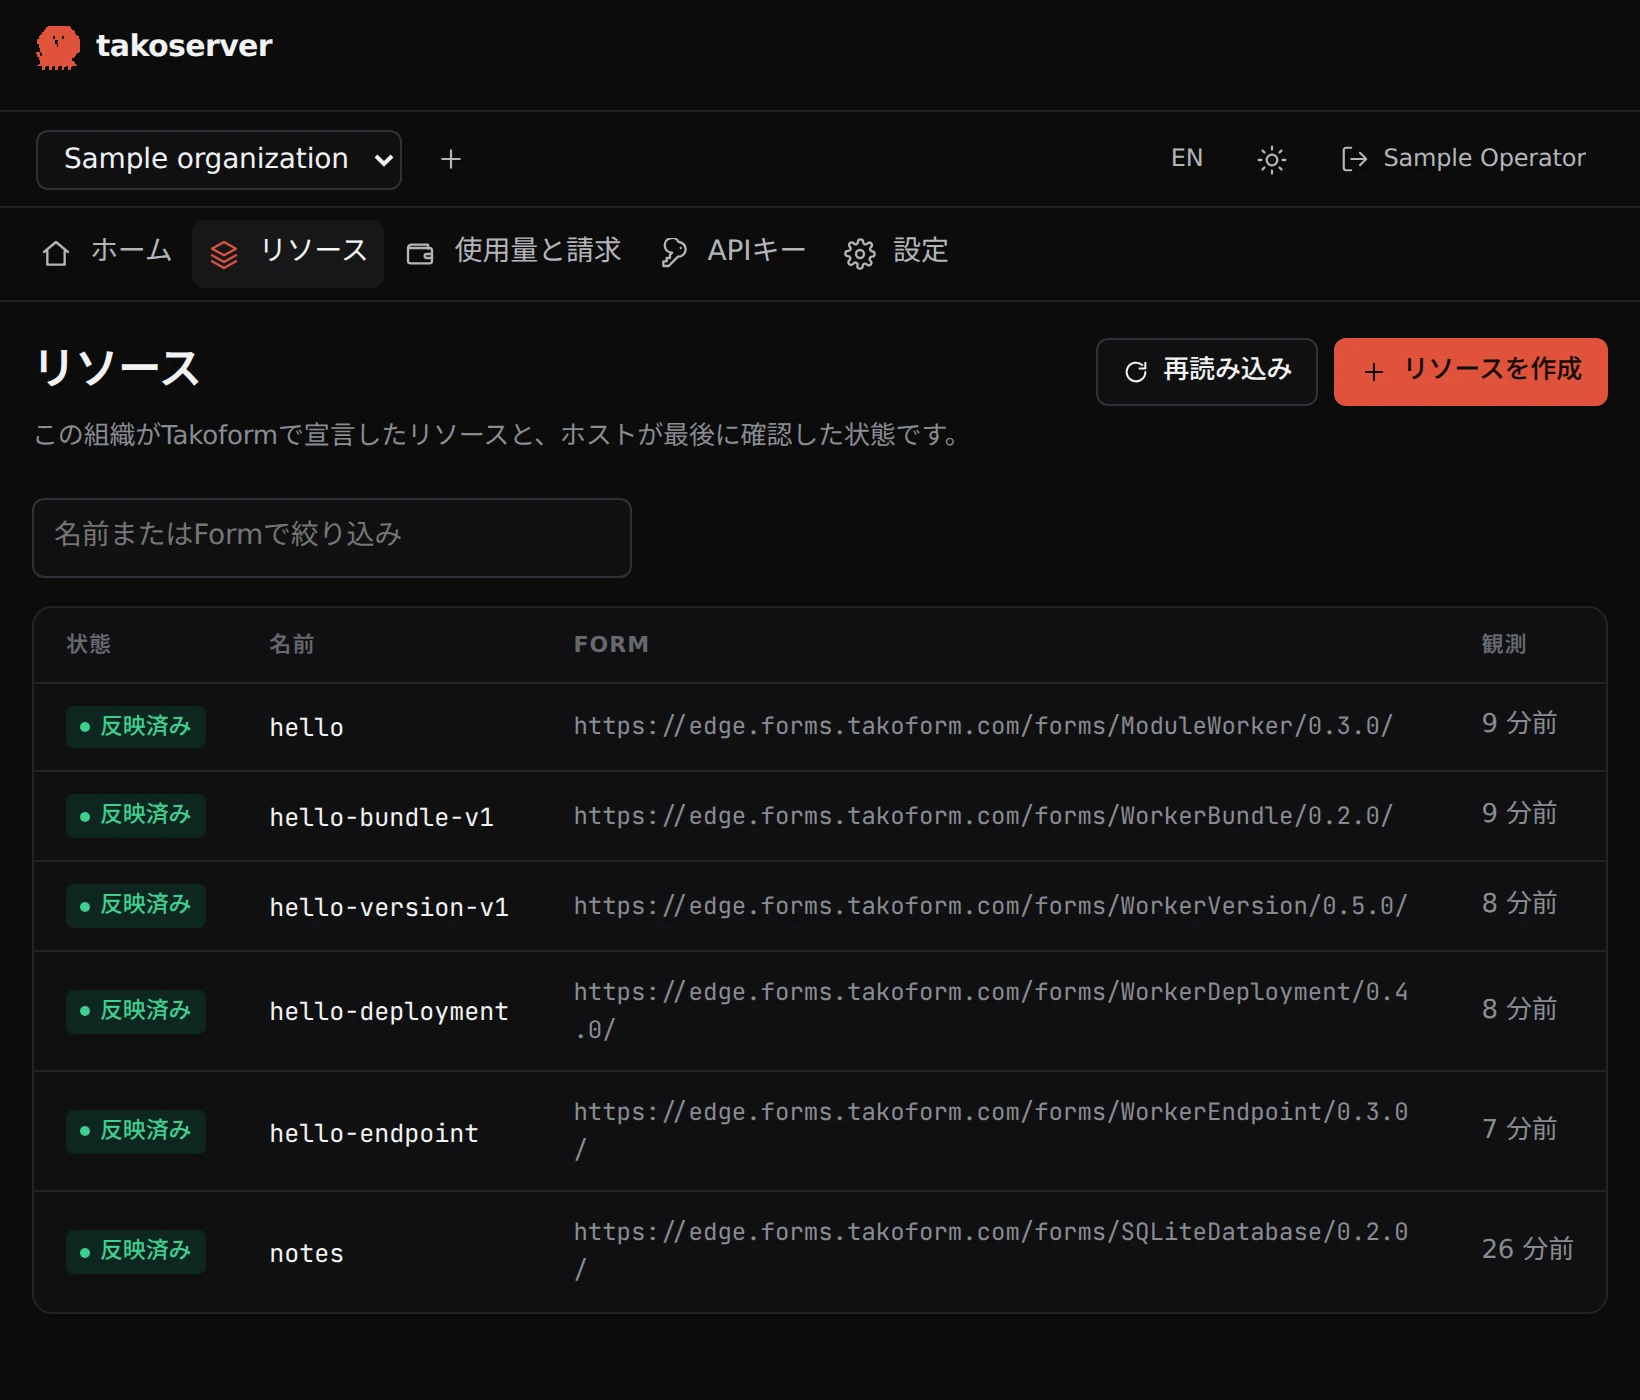
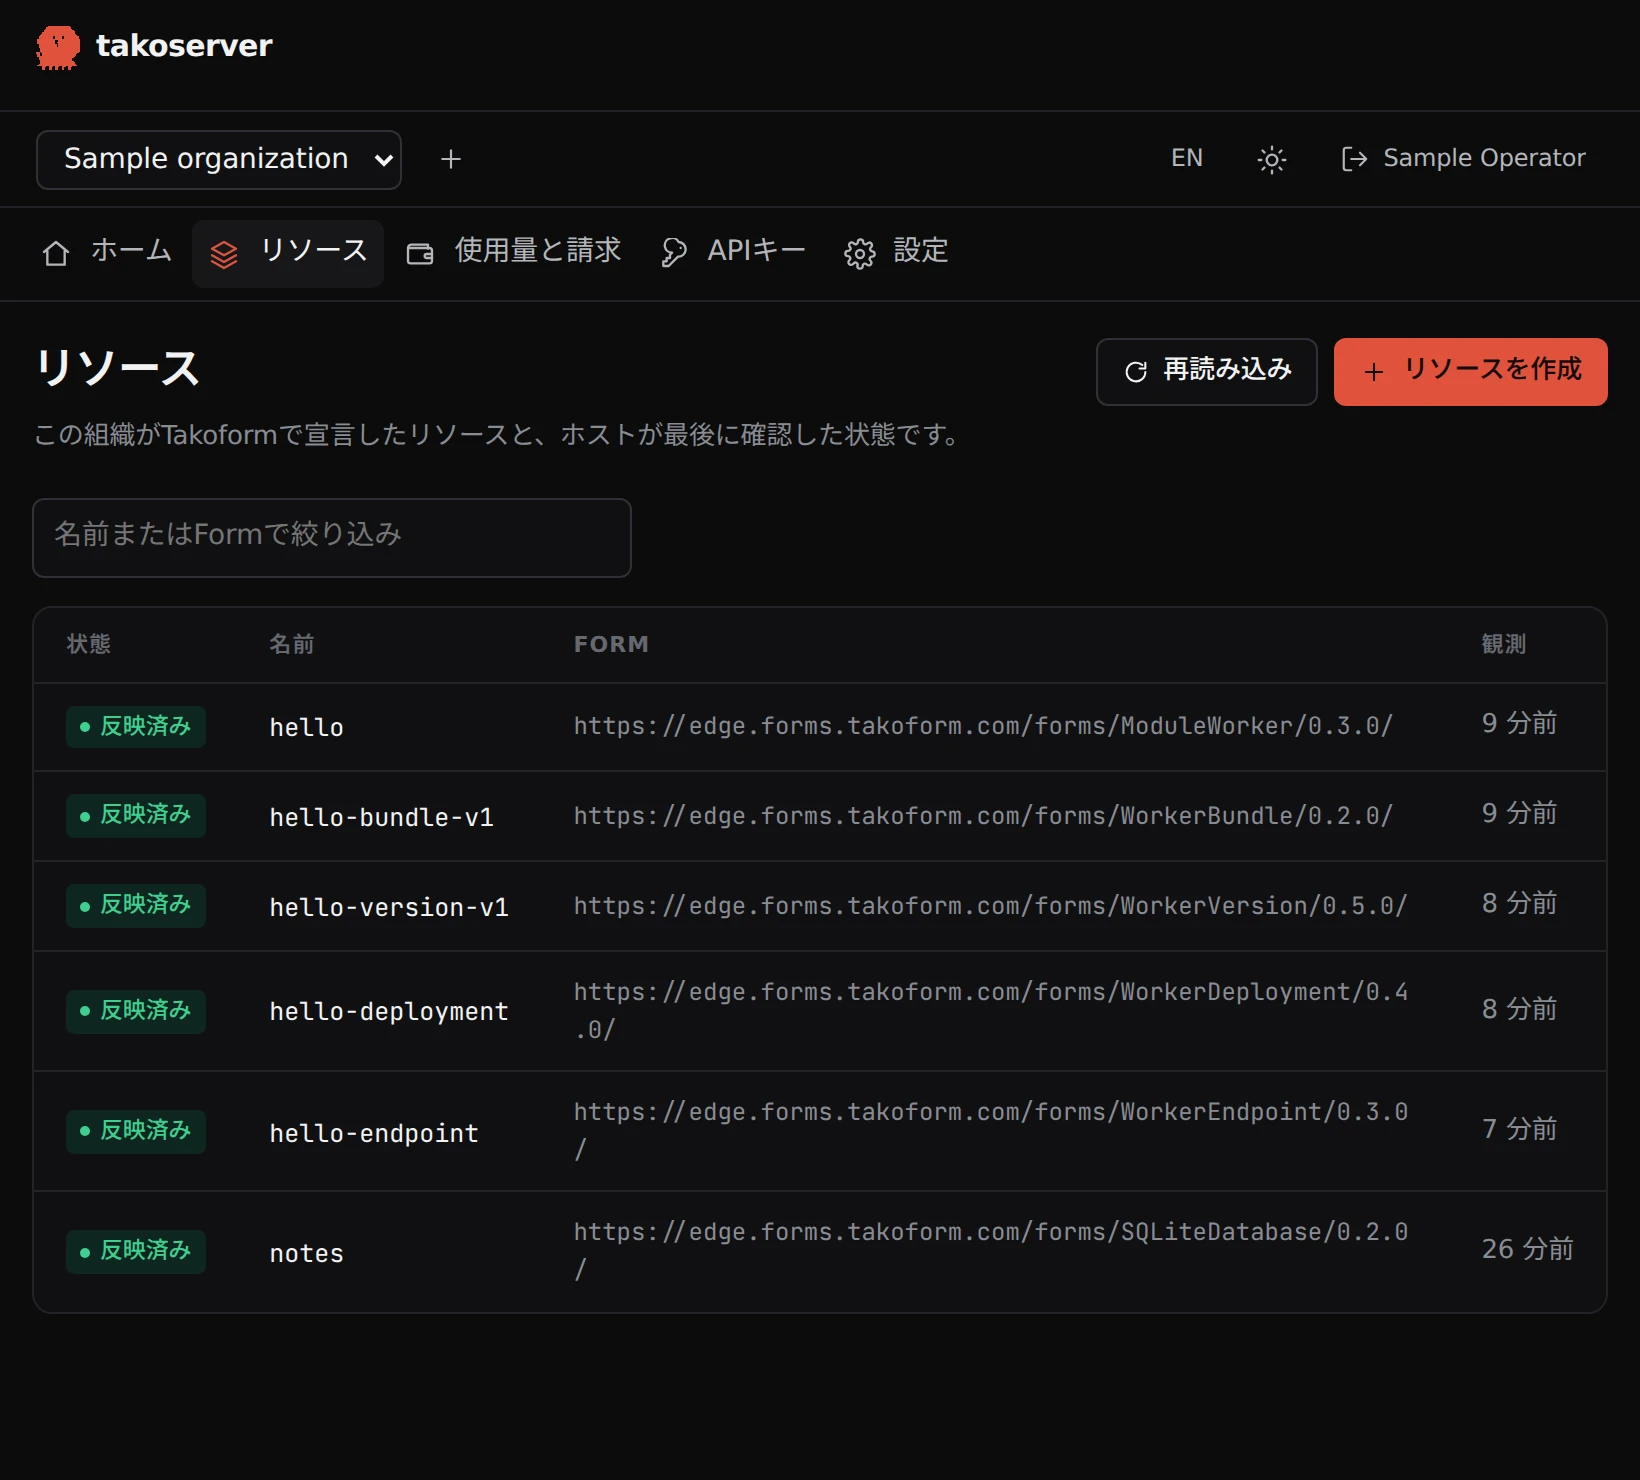
site: fit the tablet frame to its borders and show the whole table
Review follow-up: the frame cap counts the two 1px borders (848px), and the
tablet capture is 820 x 740 so the English shots end below the last row.

diff --git a/src/landing.ts b/src/landing.ts
@@ -334,7 +334,7 @@ footer { display: flex; align-items: center; justify-content: space-between; fle
 .error p { margin: 12px 0 0; color: var(--ink-2); }
 .error .pill { margin-top: 28px; }
 
-@media (min-width: 761px) and (max-width: 1100px) { .preview .frame { max-width: 844px; margin-inline: auto; } }
+@media (min-width: 761px) and (max-width: 1100px) { .preview .frame { max-width: 848px; margin-inline: auto; } }
 @media (max-width: 760px) {
   .shell { width: calc(100% - 32px); }
   .top { height: 72px; }
@@ -376,8 +376,8 @@ export function landingHtml(options: LandingOptions): string {
 <div class="frame"><picture>
 <source media="(max-width: 760px) and (prefers-color-scheme: dark)" srcset="${localized(screen("mobile", "dark"))}" data-locale-srcset="${screen("mobile", "dark")}" width="780" height="1560">
 <source media="(max-width: 760px)" srcset="${localized(screen("mobile", "light"))}" data-locale-srcset="${screen("mobile", "light")}" width="780" height="1560">
-<source media="(max-width: 1100px) and (prefers-color-scheme: dark)" srcset="${localized(screen("tablet", "dark"))}" data-locale-srcset="${screen("tablet", "dark")}" width="1640" height="1400">
-<source media="(max-width: 1100px)" srcset="${localized(screen("tablet", "light"))}" data-locale-srcset="${screen("tablet", "light")}" width="1640" height="1400">
+<source media="(max-width: 1100px) and (prefers-color-scheme: dark)" srcset="${localized(screen("tablet", "dark"))}" data-locale-srcset="${screen("tablet", "dark")}" width="1640" height="1480">
+<source media="(max-width: 1100px)" srcset="${localized(screen("tablet", "light"))}" data-locale-srcset="${screen("tablet", "light")}" width="1640" height="1480">
 <source media="(prefers-color-scheme: dark)" srcset="${localized(screen("desktop", "dark"))}" data-locale-srcset="${screen("desktop", "dark")}" width="2400" height="1500">
 <img src="${localized(screen("desktop", "light"))}" data-locale-src="${screen("desktop", "light")}" width="2400" height="1500" alt="${copy.previewAlt}" data-i18n-alt="previewAlt" fetchpriority="high">
 </picture></div>

diff --git a/scripts/capture-site-console.ts b/scripts/capture-site-console.ts
@@ -9,7 +9,7 @@
  * credential or real Host is used. Requires /usr/bin/google-chrome.
  *
  * Writes site/screens/console-{desktop,tablet,mobile}-{light,dark}-{en,ja}.webp.
- * Desktop is the whole 1200 x 750 viewport; tablet is 820 x 700, a tablet's
+ * Desktop is the whole 1200 x 750 viewport; tablet is 820 x 740, a tablet's
  * portrait width, which the page shows between phone and desktop widths so
  * the Console is not shrunk to two thirds there; mobile is 390 x 780, a
  * phone's width, so its text stays legible in the page. All are captured at
@@ -202,7 +202,7 @@ try {
   for (const locale of ["en", "ja"] as const) {
     for (const [shape, width, height] of [
       ["desktop", 1200, 750],
-      ["tablet", 820, 700],
+      ["tablet", 820, 740],
       ["mobile", 390, 780],
     ] as const) {
       for (const theme of ["light", "dark"] as const) {

diff --git a/tests/landing.test.ts b/tests/landing.test.ts
@@ -117,7 +117,7 @@ describe("Takoserver public site", () => {
     // Between phone and desktop widths the page shows the Console at a tablet's
     // width rather than shrinking the desktop capture.
     expect(english).toContain(
-      '<source media="(max-width: 1100px) and (prefers-color-scheme: dark)" srcset="/screens/console-tablet-dark-en.webp" data-locale-srcset="/screens/console-tablet-dark-{lang}.webp" width="1640" height="1400">',
+      '<source media="(max-width: 1100px) and (prefers-color-scheme: dark)" srcset="/screens/console-tablet-dark-en.webp" data-locale-srcset="/screens/console-tablet-dark-{lang}.webp" width="1640" height="1480">',
     );
     expect(english.indexOf("console-mobile-light")).toBeLessThan(
       english.indexOf("console-tablet-dark"),
